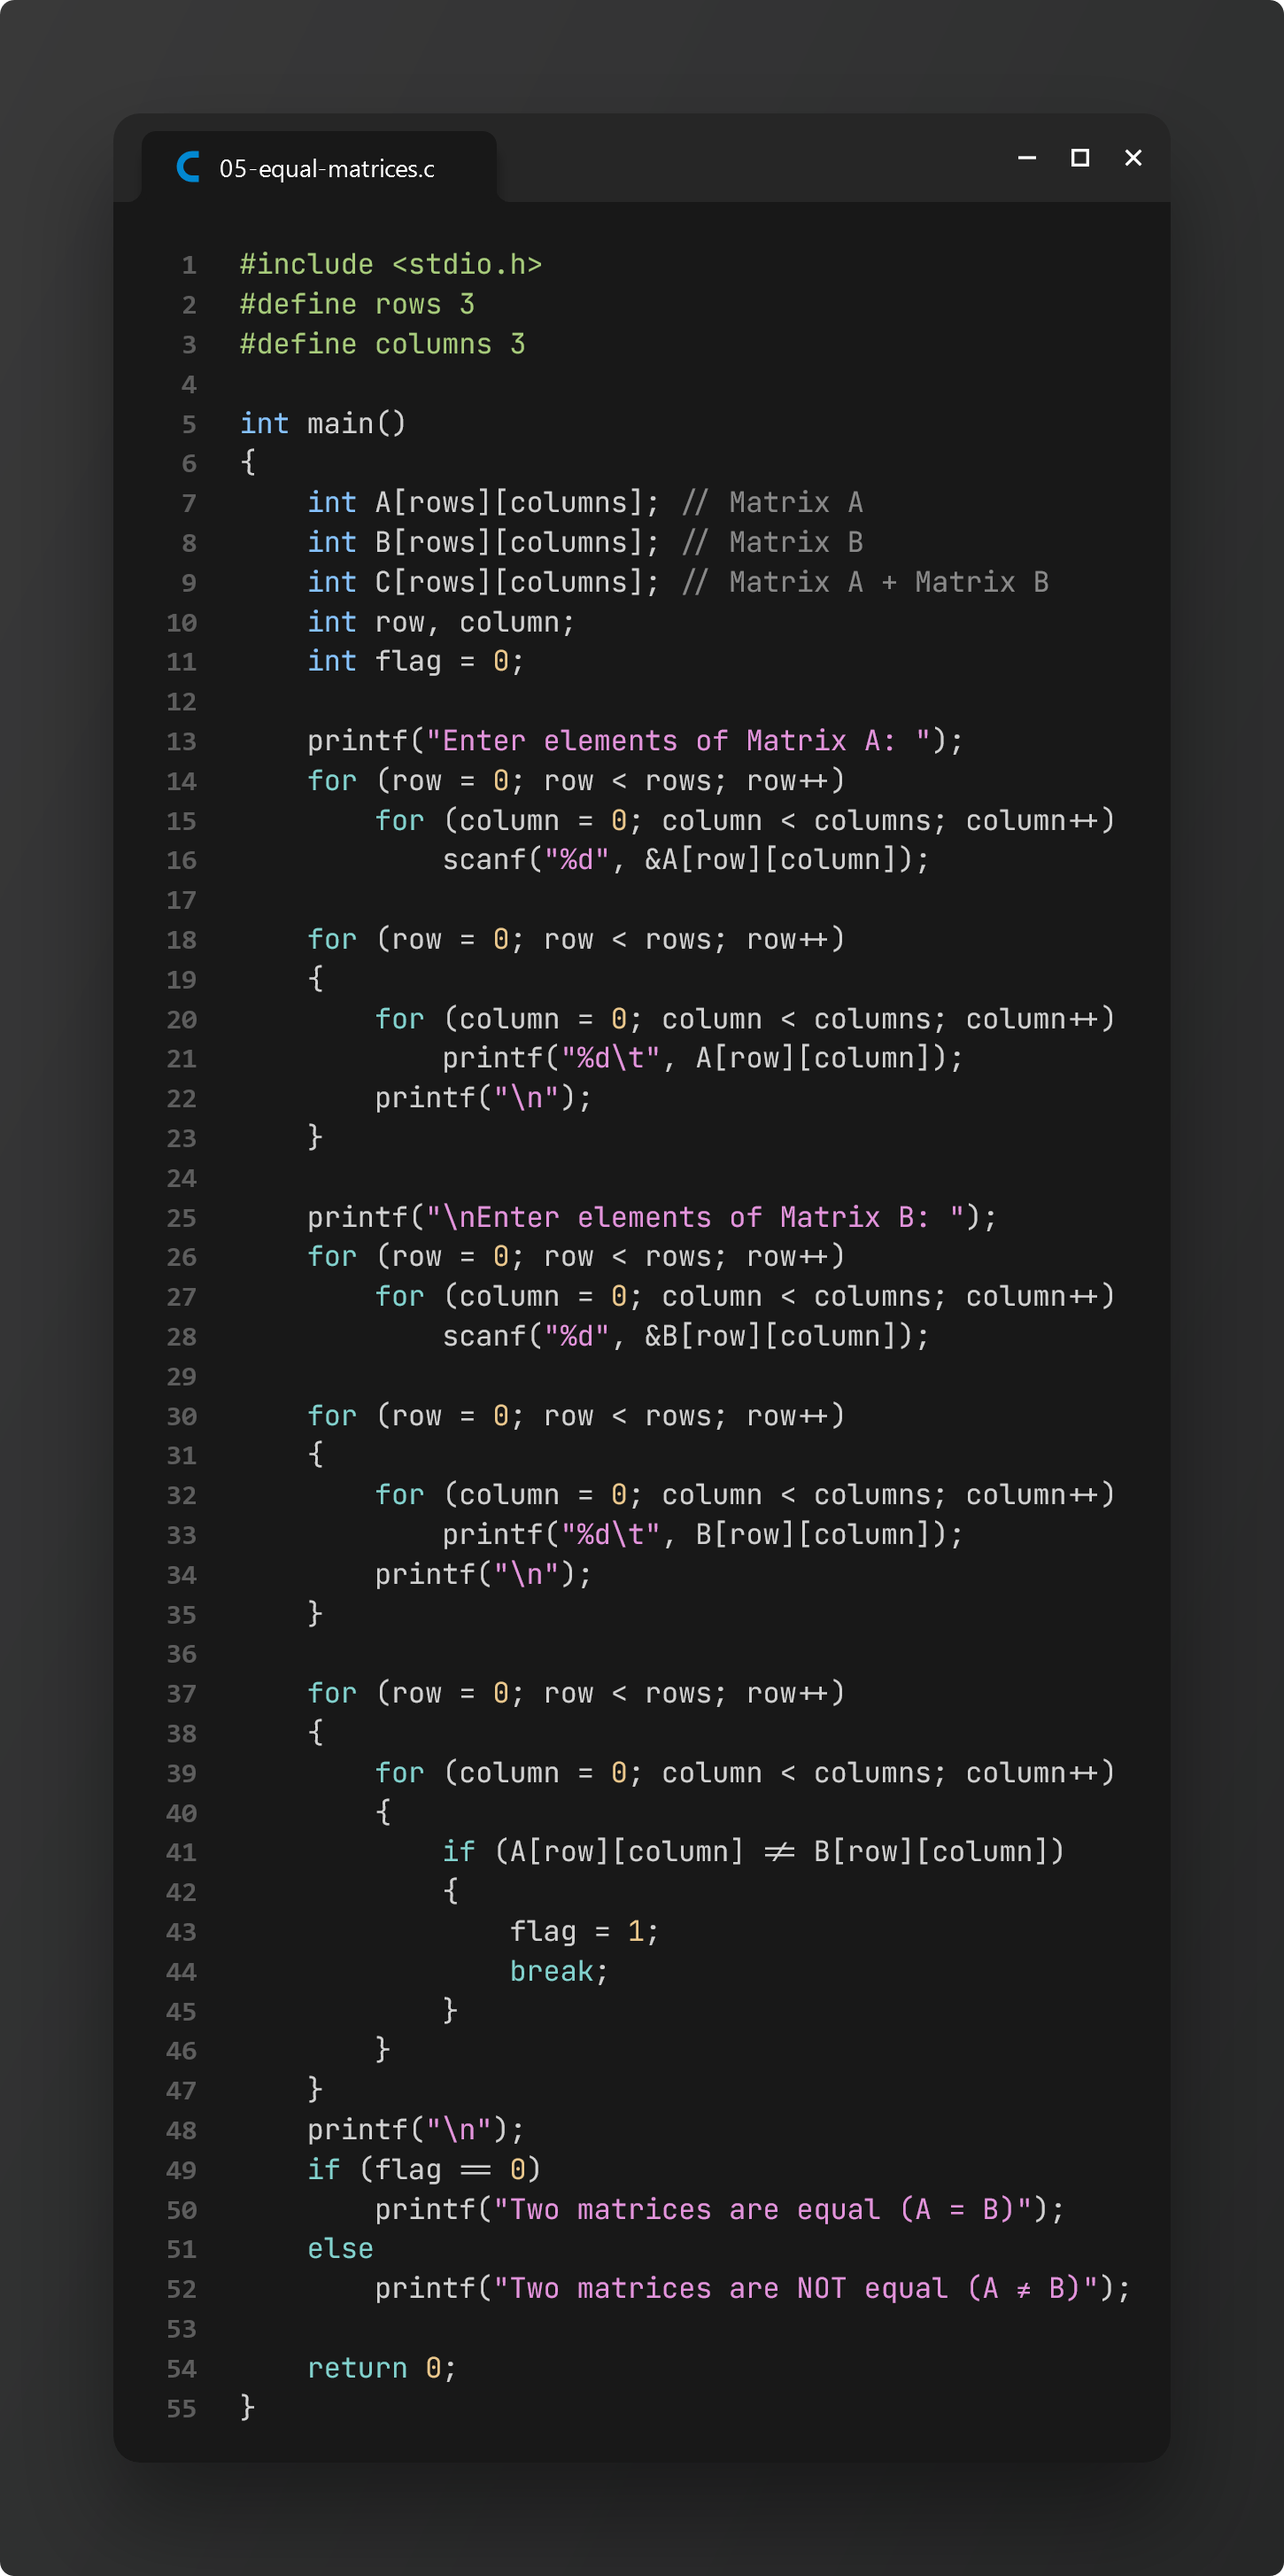
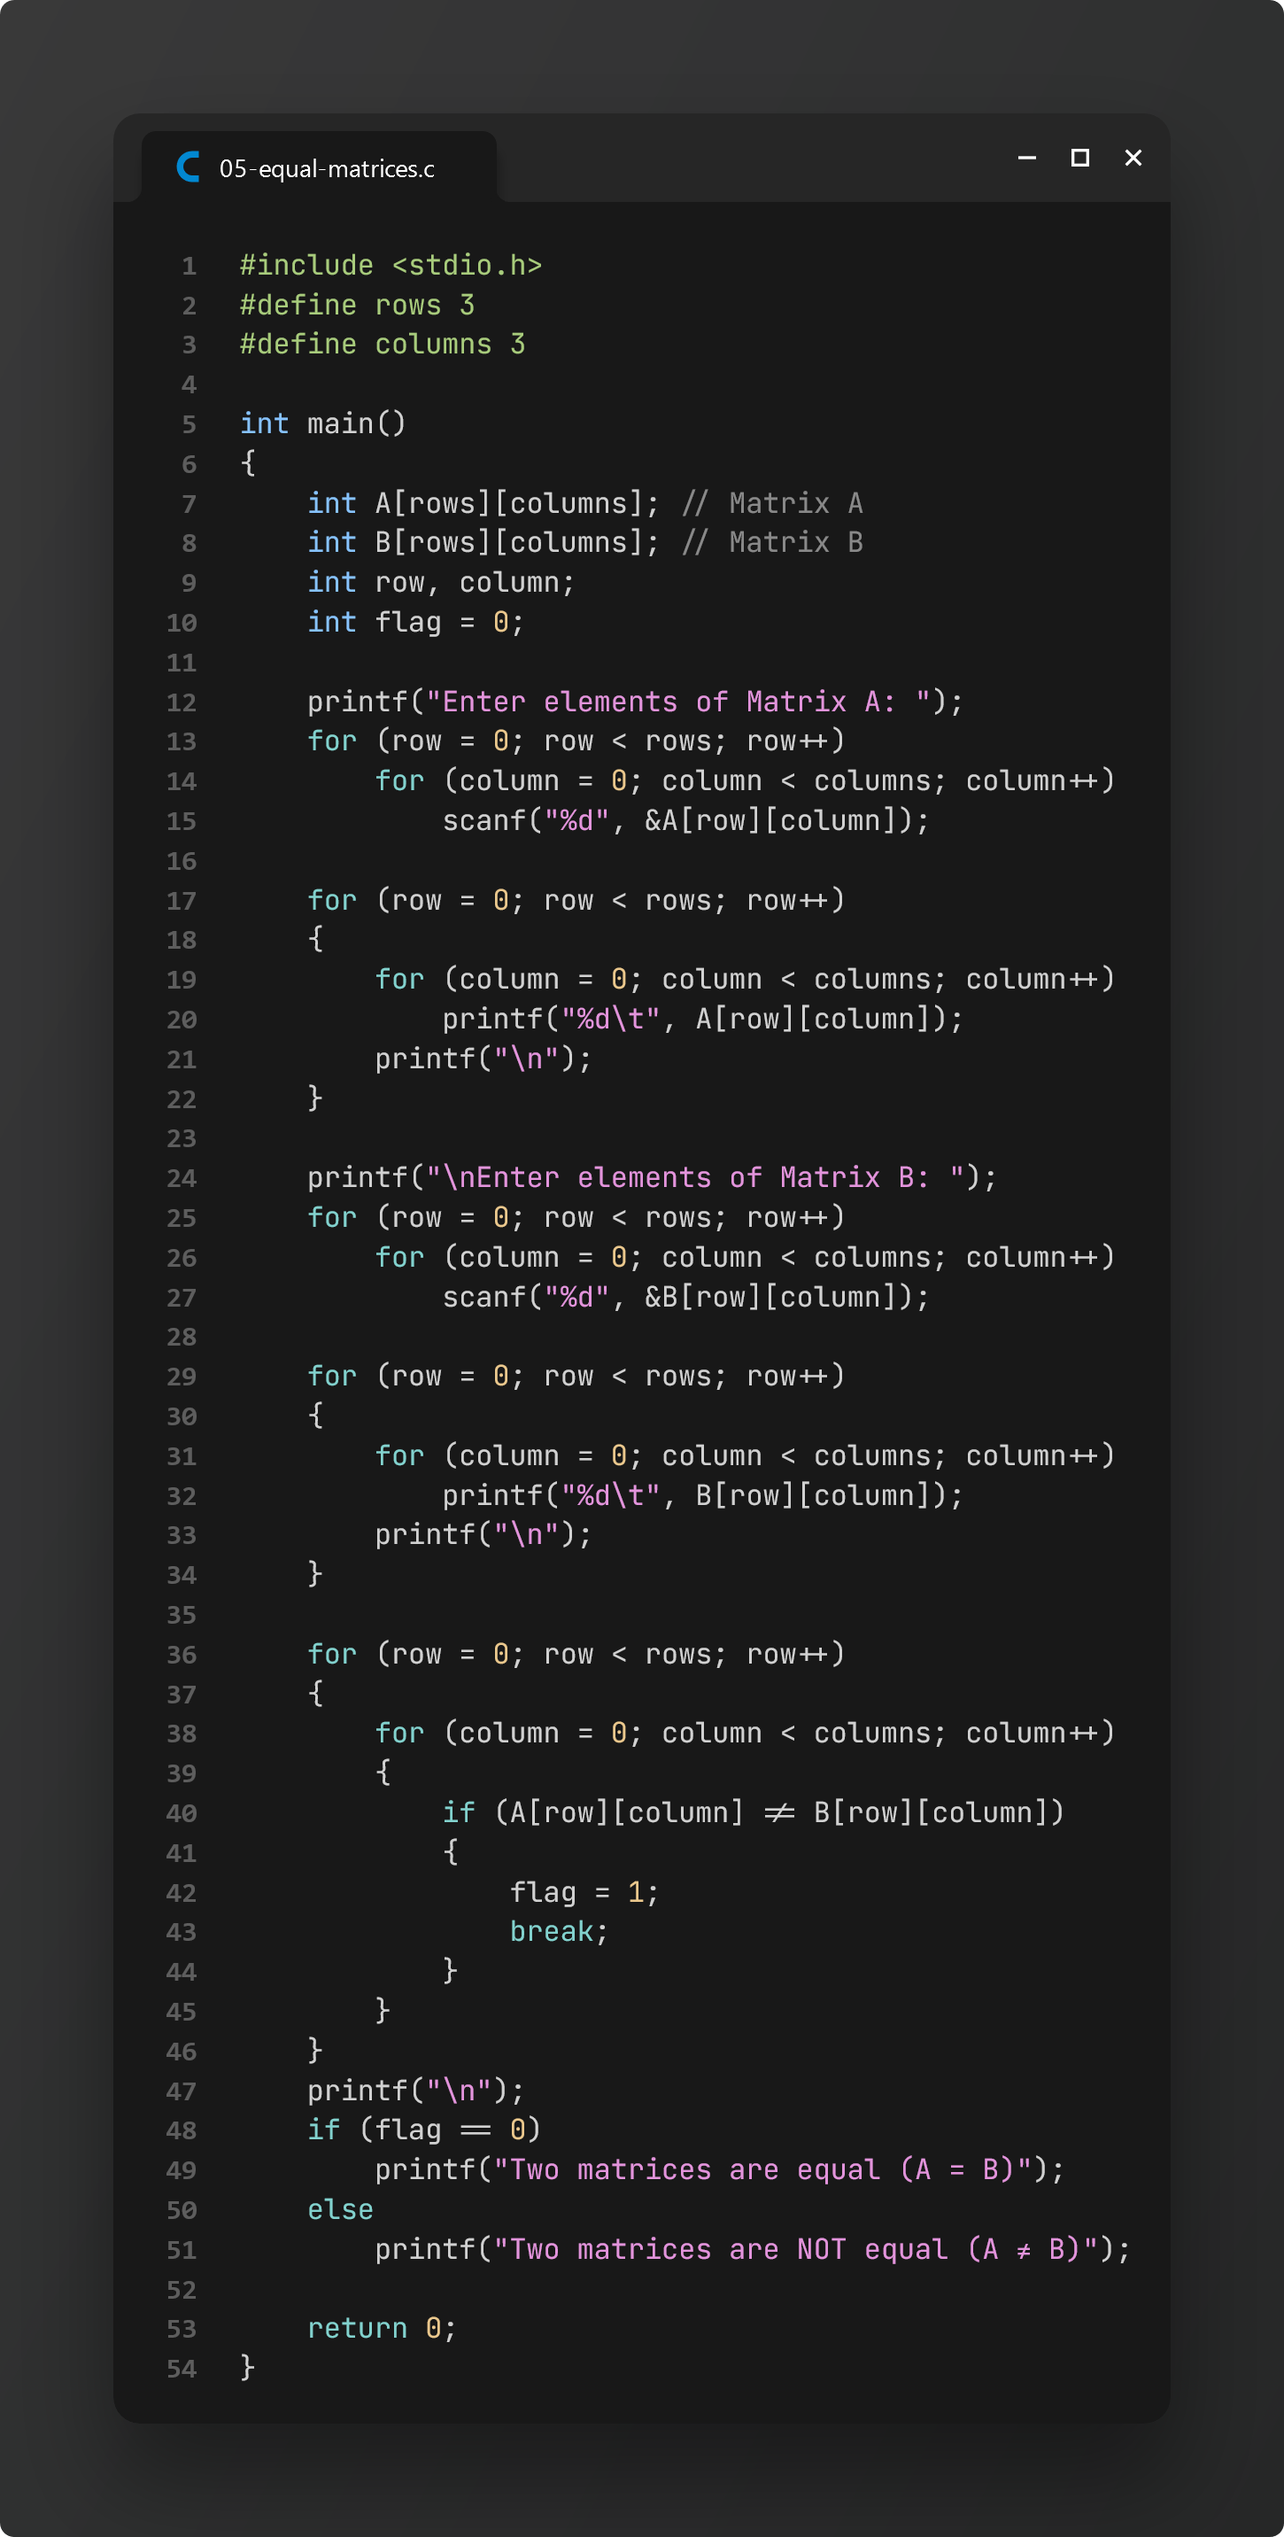
Remove unused declaration, fix typo

diff --git a/practice-07/21B-compare-str.c b/practice-07/21B-compare-str.c
@@ -3,8 +3,8 @@
 
 int main()
 {
-	char str1[] = "I am an Coder.";
-	char str2[] = "I'm an Coder.";
+	char str1[] = "I am a Coder.";
+	char str2[] = "I'm a Coder.";
 	int result = strcmp(str1, str2);
 
 	if (result == 0)

diff --git a/practice-07/05-equal-matrices.c b/practice-07/05-equal-matrices.c
@@ -6,7 +6,6 @@ int main()
 {
 	int A[rows][columns]; // Matrix A
 	int B[rows][columns]; // Matrix B
-	int C[rows][columns]; // Matrix A + Matrix B
 	int row, column;
 	int flag = 0;
 
